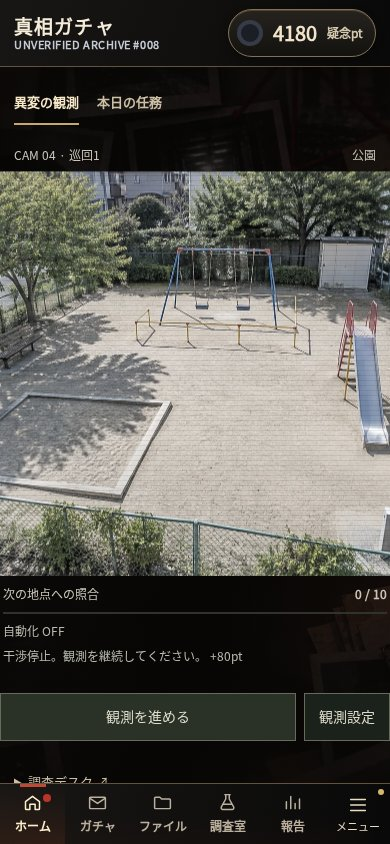
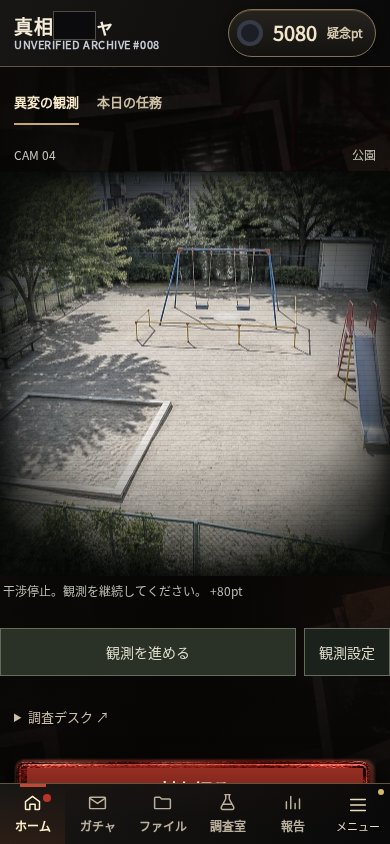
Restore redaction and uneasy observation, defer automation unlocks (#54)

diff --git a/assets/observation.js b/assets/observation.js
@@ -1,4 +1,6 @@
 /* The home is one live scene. Management and explanations live off the scene. */
+// Unlock conditions are undecided. Keep saved levels, but expose no purchase or execution path.
+const WATCH_AUTOMATION_AVAILABLE=false;
 const OBSERVATIONS={
  cctv:{title:'公園',source:'CAM 04',ratio:1.2,records:['日中の公園','風のないブランコ','影だけの来園者','砂場の整列']},
  photo:{title:'食卓',source:'PHOTO 03',ratio:.75,records:['三人分の夕食','浮いた箸','四人目の夕食','窓の内側']},
@@ -31,14 +33,10 @@ function renderObservation(){
  }
  const quiet=o.quiet||!!S.incursion?.quiet;
  f.dataset.quiet=String(quiet);f.dataset.ready='true';f.setAttribute('aria-disabled','false');
- const danger=!!p&&p.rarity>0,target=danger?WatchModel.SUPPRESS[p.rarity]:WatchModel.TAPS[o.upgrades.interval],progress=danger?(p.suppression||0):o.tapProgress;
- document.getElementById('obs-action-label').textContent=danger?'映像の乱れを抑える':'次の地点への照合';
+ const danger=!!p&&p.rarity>0;
  document.getElementById('obs-tap').textContent=danger?'干渉を抑える':'観測を進める';
- document.getElementById('obs-progress-count').textContent=`${progress} / ${target}`;
- const bar=document.getElementById('obs-progress');bar.max=target;bar.value=progress;bar.setAttribute('aria-label',danger?'異変の鎮静':'地点切替');
- document.getElementById('obs-auto-status').textContent=!o.autoEnabled?'自動化 OFF':danger?(o.upgrades.suppression>=p.rarity?'自動鎮静中':o.upgrades.patrol?'自動巡回：異変の対処待ち':''):(o.upgrades.patrol?`自動巡回 · ${WatchModel.AUTO_SECONDS[o.upgrades.patrol]}秒で1回`:'');
- f.setAttribute('aria-label',`${m.title}。${danger?'異変を鎮静':'次の観測地点へ'}。${progress}/${target}。タップで観測を進める`);
- document.getElementById('obs-source').textContent=`${m.source} · 巡回${o.patrols+1}`;
+ f.setAttribute('aria-label',`${m.title}。${danger?'干渉を抑える':'タップで観測を進める'}`);
+ document.getElementById('obs-source').textContent=m.source;
  document.getElementById('obs-name').textContent=m.title;
  document.getElementById('obs-ready').hidden=!p;
  document.getElementById('obs-timer').textContent=p?`◷ ${watchDuration(p.expiresAt-o.lastSeen)}`:'';
@@ -53,7 +51,7 @@ function observationTick(){
  const scene=document.getElementById('obs-frame').getBoundingClientRect();
  const active=scene.bottom>0&&scene.top<innerHeight-60&&!document.hidden&&!document.getElementById('incursion-dialog').open&&document.getElementById('sheet-bg').hidden&&document.getElementById('stage').hidden&&!!document.getElementById('obs-frame').getClientRects().length;
  const o=observationState(),before=[o.tapProgress,o.pending?.suppression,o.pending?.sequence,o.sequence].join('/');
- const result=WatchModel.automate(o,Date.now(),active);
+ const result=WatchModel.automate(o,Date.now(),WATCH_AUTOMATION_AVAILABLE&&active);
  if(result)observationReward(result,true);else {
   if(before!==[o.tapProgress,o.pending?.suppression,o.pending?.sequence,o.sequence].join('/'))markDirty();
   renderObservation();
@@ -74,12 +72,12 @@ function observationCollect(){
 }
 function observationSettings(){
  const o=observationSync(),p=o.pending;
- sheet('観測設定',`<div class="watch-settings"><h2>${WatchModel.MODES[o.mode].label} ／ ${OBSERVATIONS[o.mode].title}</h2><p>${p?`受取期限まで ${watchDuration(p.expiresAt-o.lastSeen)}`:`定時観測まで ${watchDuration(o.dueAt-o.lastSeen)}`}</p><p>${WatchModel.TAPS[o.upgrades.interval]}タップで巡回 · ${WatchModel.RETENTION[o.upgrades.retention]}時間保持</p><p>映像または「観測を進める」を繰り返しタップ。照合が完了すると解放済みの次の地点へ移動し、記録報酬を受け取ります。1地点のみの場合は同じ地点を再観測します。異変は追加のタップで干渉を抑えると、通常より多くの記録報酬を受け取ります。保持中は別地点に切り替えられません。</p><button class="btn-paper" data-watch="lab">観測装備を変更・育成</button><label><input type="checkbox" data-watch-auto ${o.autoEnabled?'checked':''}> 自動巡回・鎮静を有効にする</label><p>自動化は調査室で強化。観測映像の表示中だけ進み、別画面・資料閲覧・対処中は停止。留守中の自動pt獲得は継続します。</p><label><input type="checkbox" data-watch-quiet ${o.quiet?'checked':''}> 揺れ・瞬きを抑える</label><details><summary>観測記録 ${o.collected}件</summary><ul>${o.history.slice().reverse().map(h=>`<li>${WatchModel.RARITY[h.rarity].name} · ${OBSERVATIONS[h.mode].records[h.rarity]} · +${h.reward}pt</li>`).join('')||'<li>記録はまだありません。</li>'}</ul></details><details><summary>出現率と報酬</summary><p>同じ地点で平常と3種類の異変を抽選。受取前の変更・引き直しはできません。</p><p>N / R / SR / SSR：${[[60,28,10,2],[50,33,14,3],[40,37,18,5]][o.upgrades.sensitivity].join(' / ')}%</p><p>通常巡回 8pt、異変鎮静 R / SR / SSR は80 / 200 / 480pt。方式倍率：監視×1、写真×1.25、視界×1.5、車載×2。虫眼鏡でさらに1Lvあたり+10%（四捨五入）。</p></details><button class="btn-line" data-desk="evidence">別件の検知記録</button><button class="btn-line" data-inc="open">異変の対処記録</button></div>`);
+ sheet('観測設定',`<div class="watch-settings"><h2>${WatchModel.MODES[o.mode].label} ／ ${OBSERVATIONS[o.mode].title}</h2><p>${p?`受取期限まで ${watchDuration(p.expiresAt-o.lastSeen)}`:`定時観測まで ${watchDuration(o.dueAt-o.lastSeen)}`}</p><p>${WatchModel.RETENTION[o.upgrades.retention]}時間保持</p><p>映像または「観測を進める」を繰り返しタップ。照合が完了すると解放済みの次の地点へ移動し、記録報酬を受け取ります。1地点のみの場合は同じ地点を再観測します。異変は追加のタップで干渉を抑えると、通常より多くの記録報酬を受け取ります。保持中は別地点に切り替えられません。</p><button class="btn-paper" data-watch="lab">観測装備を変更・育成</button>${WATCH_AUTOMATION_AVAILABLE?`<label><input type="checkbox" data-watch-auto ${o.autoEnabled?'checked':''}> 自動巡回・鎮静を有効にする</label><p>自動化は調査室で強化。観測映像の表示中だけ進み、別画面・資料閲覧・対処中は停止。留守中の自動pt獲得は継続します。</p>`:''}<label><input type="checkbox" data-watch-quiet ${o.quiet?'checked':''}> 揺れ・瞬きを抑える</label><details><summary>観測記録 ${o.collected}件</summary><ul>${o.history.slice().reverse().map(h=>`<li>${WatchModel.RARITY[h.rarity].name} · ${OBSERVATIONS[h.mode].records[h.rarity]} · +${h.reward}pt</li>`).join('')||'<li>記録はまだありません。</li>'}</ul></details><details><summary>出現率と報酬</summary><p>同じ地点で平常と3種類の異変を抽選。受取前の変更・引き直しはできません。</p><p>N / R / SR / SSR：${[[60,28,10,2],[50,33,14,3],[40,37,18,5]][o.upgrades.sensitivity].join(' / ')}%</p><p>通常巡回 8pt、異変鎮静 R / SR / SSR は80 / 200 / 480pt。方式倍率：監視×1、写真×1.25、視界×1.5、車載×2。虫眼鏡でさらに1Lvあたり+10%（四捨五入）。</p></details><button class="btn-line" data-desk="evidence">別件の検知記録</button><button class="btn-line" data-inc="open">異変の対処記録</button></div>`);
 }
 function renderObservationLab(){
  const root=document.getElementById('observation-lab');if(!root)return;if(isLite()){root.innerHTML='';return;}
  const o=observationState();
- root.innerHTML=`<section class="watch-lab"><div class="watch-lab-heading"><h2>観測装備</h2><span>${o.collected}件</span></div><div class="watch-equipment">${Object.entries(WatchModel.MODES).map(([id,m])=>{const owned=o.unlocked.includes(id),active=id===o.mode,eligible=o.collected>=m.need&&S.currency>=m.cost;return `<article class="watch-mode ${active?'equipped':''}"><div><b>${m.label}</b><small>${OBSERVATIONS[id].title} · pt ×${m.mult}</small></div><button type="button" data-watch-${owned?'equip':'unlock'}="${id}" ${owned?(active||o.pending?'disabled':''):eligible?'':'disabled'}>${active?'● 設置中':owned?'設置':o.collected<m.need?`🔒 ${o.collected}/${m.need}件`:`解放 ${m.cost}pt`}</button></article>`;}).join('')}</div>${o.pending?'<p class="watch-note">記録を保持中。タップで観測・鎮静を終えると装備を変更できます。</p>':''}<details class="watch-upgrades"><summary>観測を強化 <span>${WatchModel.TAPS[o.upgrades.interval]}タップ / ${WatchModel.RETENTION[o.upgrades.retention]}h</span></summary>${Object.entries(WatchModel.UPGRADES).map(([id,u])=>{const lv=o.upgrades[id],max=lv===u.max;const values=id==='retention'?WatchModel.RETENTION.map(x=>x+'時間'):id==='interval'?WatchModel.TAPS.map(x=>x+'タップ'):id==='patrol'?['手動','5秒に1回','3秒に1回','1秒に1回']:id==='suppression'?['手動','Rまで自動','SRまで自動','SSRまで自動']:['SSR 2%','SSR 3%','SSR 5%'];return `<article><div><b>${u.name}</b><small>${values[lv]}${max?'':` → ${values[lv+1]}`}</small></div><button data-watch-upgrade="${id}" ${max||S.currency<u.costs[lv]?'disabled':''}>${max?'最大':`${u.costs[lv]}pt`}</button></article>`;}).join('')}<p class="watch-note">保持強化は受取待ちの記録にも適用。巡回効率は定時観測の間隔も短縮。自動鎮静は観測映像の異変が対象で、封筒調査の自律封印装置とは別です。</p></details></section>`;
+ root.innerHTML=`<section class="watch-lab"><div class="watch-lab-heading"><h2>観測装備</h2><span>${o.collected}件</span></div><div class="watch-equipment">${Object.entries(WatchModel.MODES).map(([id,m])=>{const owned=o.unlocked.includes(id),active=id===o.mode,eligible=o.collected>=m.need&&S.currency>=m.cost;return `<article class="watch-mode ${active?'equipped':''}"><div><b>${m.label}</b><small>${OBSERVATIONS[id].title} · pt ×${m.mult}</small></div><button type="button" data-watch-${owned?'equip':'unlock'}="${id}" ${owned?(active||o.pending?'disabled':''):eligible?'':'disabled'}>${active?'● 設置中':owned?'設置':o.collected<m.need?`🔒 ${o.collected}/${m.need}件`:`解放 ${m.cost}pt`}</button></article>`;}).join('')}</div>${o.pending?'<p class="watch-note">記録を保持中。タップで観測・鎮静を終えると装備を変更できます。</p>':''}<details class="watch-upgrades"><summary>観測を強化 <span>${WatchModel.RETENTION[o.upgrades.retention]}h</span></summary>${Object.entries(WatchModel.UPGRADES).filter(([id])=>WATCH_AUTOMATION_AVAILABLE||!['patrol','suppression'].includes(id)).map(([id,u])=>{const lv=o.upgrades[id],max=lv===u.max;const values=id==='retention'?WatchModel.RETENTION.map(x=>x+'時間'):id==='interval'?['標準','短縮 I','短縮 II','短縮 III']:id==='patrol'?['手動','5秒に1回','3秒に1回','1秒に1回']:id==='suppression'?['手動','Rまで自動','SRまで自動','SSRまで自動']:['SSR 2%','SSR 3%','SSR 5%'];return `<article><div><b>${u.name}</b><small>${values[lv]}${max?'':` → ${values[lv+1]}`}</small></div><button data-watch-upgrade="${id}" ${max||S.currency<u.costs[lv]?'disabled':''}>${max?'最大':`${u.costs[lv]}pt`}</button></article>`;}).join('')}<p class="watch-note">保持強化は受取待ちの記録にも適用。巡回効率は定時観測の間隔も短縮。</p></details></section>`;
 }
 document.getElementById('obs-frame').addEventListener('click',observationCollect);
 document.getElementById('obs-tap').addEventListener('click',observationCollect);
@@ -90,11 +88,11 @@ document.addEventListener('click',e=>{
  const o=observationSync();let cost=null;
  if(b.dataset.watchEquip){if(!WatchModel.equip(o,b.dataset.watchEquip,Date.now()))return;}
  else if(b.dataset.watchUnlock){cost=WatchModel.unlock(o,b.dataset.watchUnlock,S.currency);if(cost===null)return;S.currency-=cost;}
- else if(b.dataset.watchUpgrade){cost=WatchModel.upgrade(o,b.dataset.watchUpgrade,S.currency,Date.now());if(cost===null)return;S.currency-=cost;}
+ else if(b.dataset.watchUpgrade){if(!WATCH_AUTOMATION_AVAILABLE&&['patrol','suppression'].includes(b.dataset.watchUpgrade))return;cost=WatchModel.upgrade(o,b.dataset.watchUpgrade,S.currency,Date.now());if(cost===null)return;S.currency-=cost;}
  else return;
  const expanded=document.querySelector('.watch-upgrades')?.open;markDirty();render();if(expanded)document.querySelector('.watch-upgrades').open=true;
 });
-document.addEventListener('change',e=>{if(e.target.matches('[data-watch-auto]')){observationState().autoEnabled=e.target.checked;observationState().autoLastAt=Date.now();markDirty();}if(e.target.matches('[data-watch-quiet]')){observationState().quiet=e.target.checked;markDirty();renderObservation();}});
+document.addEventListener('change',e=>{if(WATCH_AUTOMATION_AVAILABLE&&e.target.matches('[data-watch-auto]')){observationState().autoEnabled=e.target.checked;observationState().autoLastAt=Date.now();markDirty();}if(e.target.matches('[data-watch-quiet]')){observationState().quiet=e.target.checked;markDirty();renderObservation();}});
 document.addEventListener('visibilitychange',()=>{if(typeof S!=='undefined'&&!isLite()){observationState().autoLastAt=Date.now();if(!document.hidden)observationTick();}});
 
 function renderObservationAlbum(){

diff --git a/assets/observation.css b/assets/observation.css
@@ -48,13 +48,6 @@ body:has(.agent-home:not([hidden])) main{padding-bottom:calc(84px + env(safe-are
 
 .watch-research{display:flex;align-items:center;justify-content:space-between;gap:12px;padding:10px 0;color:#d7cbb1;font-size:14px}.watch-research button{min-height:44px;min-width:92px;border:1px solid #9c8655;background:#29392d;color:#fff0cf;font:700 14px var(--f-body);padding:10px;scroll-margin-block:90px}.watch-research button:disabled{background:transparent;color:#bdb39c;border-color:#625a48;opacity:1}.watch-research-confirm h2{font-size:20px}.watch-research-confirm p{font-size:15px;line-height:1.8;color:#eddfc3}.watch-research-confirm button{display:block;min-height:48px;width:100%;margin:12px 0;white-space:normal}
 
-/* Instrument readout: quiet, outside the image; no arcade reward animation. */
-.obs-progress{padding:8px 3px 0;color:#c9c6b9}
-.obs-progress>div{display:flex;justify-content:space-between;gap:12px;font:12px/1.7 var(--f-mono)}
-.obs-progress progress{display:block;width:100%;height:2px;margin:7px 0;accent-color:#96998b;border:0}
-.obs-progress progress::-webkit-progress-bar{background:#30332c}
-.obs-progress progress::-webkit-progress-value{background:#96998b}
-.obs-progress small{display:block;min-height:18px;color:#b8bcaf;font-size:12px}
 .obs-controls{display:flex;flex-wrap:wrap;gap:8px;margin:4px 0 8px}
 .obs-controls button{min-height:48px;padding:10px 14px;border:1px solid #676b5b;background:#1b211b;color:#dddccb;font:14px/1.5 var(--f-body);touch-action:manipulation}
 .obs-controls #obs-tap{flex:1;min-width:140px;background:#2a3127}
@@ -65,3 +58,11 @@ body:has(.agent-home:not([hidden])) main{padding-bottom:calc(84px + env(safe-are
 .obs-frame{--obs-height:clamp(290px,48dvh,560px)}
 
 .obs-alert{width:auto;height:auto;padding:4px 7px;border-radius:0;background:#111a;color:#cccdbd;font:12px/1.5 var(--f-mono);box-shadow:none}
+
+/* Look through a dark aperture. Only the scene is shaded, never controls or text.
+   Keep the centre clear and the periphery translucent so anomalies remain observable. */
+.obs-frame::after{content:'';position:absolute;inset:0;pointer-events:none;z-index:1;background:radial-gradient(ellipse 65% 58% at 50% 48%,transparent 38%,#05070533 62%,#050705b8 87%,#050705eb 100%);box-shadow:inset 0 0 22px 5px #050705bd}
+.obs-frame[data-mode=vision]::after{background:radial-gradient(ellipse 68% 48% at 50% 49%,transparent 38%,#03050355 68%,#030503d9 96%)}
+.obs-frame[data-mode=photo]::after{background:radial-gradient(ellipse 66% 64% at 49% 46%,transparent 40%,#110c0855 70%,#050403d9 100%)}
+.obs-frame[data-mode=dash]::after{background:radial-gradient(ellipse 78% 53% at 50% 44%,transparent 38%,#03050444 65%,#030504d9 100%)}
+.obs-alert,.obs-timer,#obs-first-hint{z-index:2}

diff --git a/assets/menu.js b/assets/menu.js
@@ -1,6 +1,6 @@
 /* Operator notices are release-managed; personal game mail is saved with the player. */
 const GAME_NOTICES=[
- {id:'observation-patrol-1',date:'2026.10.09',title:'観測手順と操作配置を更新しました',body:'映像か下部のボタンを繰り返しタップすると次の地点へ進み、平常時も記録報酬を受け取れます。映像に干渉がある場合は追加操作で抑えてください。調査室で自動巡回・鎮静を強化できます。設定やメニューは下部へ移動し、真相印は本文と重ならない位置に調整しました。'},
+ {id:'observation-patrol-1',date:'2026.10.09',title:'観測手順と操作配置を更新しました',body:'映像か下部のボタンを繰り返しタップすると次の地点へ進み、平常時も記録報酬を受け取れます。映像に干渉がある場合は追加操作で抑えてください。自動巡回・鎮静は解放条件の調整中につき非表示・停止しています。購入済みの育成データは保持されます。設定やメニューは下部へ移動し、真相印は本文と重ならない位置に調整しました。'},
  {id:'observation-research-1',date:'2026.10.09',title:'重複記録を照合できるようになりました',body:'「ファイル → 観測」で同じ地点の重複48件を照合すると、未発見の記録を1件復元できます。発見済みの画像や記録件数は残ります。全4種を揃えた達成報酬や、発見済み画像の比較も利用できます。'},
  {id:'observation-2',date:'2026.10.09',title:'観測と記録を更新しました',body:'観測映像を大きく表示し、1つの装備で記録を待つ仕組みに更新しました。記録は3時間保持され、調査室で最大24時間まで延長できます。発見した映像は「ファイル → 観測」から見返せます。'},
  {id:'menu-1',date:'2026.10.09',title:'お知らせ・受信ボックスを追加しました',body:'運営からの更新情報はこのお知らせに掲載します。ゲーム内メールと添付報酬は受信ボックスへ届きます。新着はメニューの小さな印で確認できます。'}

diff --git a/index.html b/index.html
@@ -1005,7 +1005,7 @@ main:has(.gacha-scene:not([hidden])){padding-bottom:calc(var(--nav-h) + env(safe
 
 <header class="top">
   <div class="top-in">
-    <div class="logo">真相<span class="bar">ガチ</span>ャ<small id="issue">UNVERIFIED ARCHIVE #001</small></div>
+    <div class="logo" aria-label="真相ガチャ">真相<span class="bar">ガチ</span>ャ<small id="issue">UNVERIFIED ARCHIVE #001</small></div>
     <button class="wallet" id="wallet" type="button" aria-label="疑念ptの獲得詳細を見る">
       <span class="ring" id="ring" aria-hidden="true"></span>
       <b id="pt">0</b><span>疑念pt</span>
@@ -1086,7 +1086,6 @@ main:has(.gacha-scene:not([hidden])){padding-bottom:calc(var(--nav-h) + env(safe
           <span id="obs-timer" class="obs-timer" aria-hidden="true"></span>
           <span id="obs-first-hint">映像または下のボタンをタップ</span>
         </button>
-        <div class="obs-progress"><div><span id="obs-action-label"></span><b id="obs-progress-count"></b></div><progress id="obs-progress" max="10" value="0" aria-label="観測の進捗"></progress><small id="obs-auto-status"></small></div>
         <p id="obs-feedback" role="status" aria-live="polite"></p>
         <div class="obs-controls"><button id="obs-tap" type="button">観測を進める</button><button data-watch="settings" type="button">観測設定</button><button id="obs-danger" data-inc="open" aria-label="別件の異変に対処" hidden>対処記録</button></div>
       </section>

diff --git a/assets/information-ui.css b/assets/information-ui.css
@@ -1,5 +1,5 @@
 /* One physical surface per component; no extra picture frames around props. */
-.logo .bar { background:transparent; color:inherit; box-shadow:none; }
+.logo .bar { background:var(--redact); color:transparent; box-shadow:0 0 0 1px #4d4b43; }
 .logo { animation:none; }
 .dossier-view .scene-heading { padding:8px 0 12px; min-height:0; border-bottom:0; }
 .dossier-view .scene-heading::after { display:none; }

diff --git a/docs/OBSERVATION.md b/docs/OBSERVATION.md
@@ -17,6 +17,8 @@
 
 定時観測も10分ごとに1件保持。保持は3時間、育成で6→12→24時間。期限を逃しても危険度や所持ptは減らない。巡回効率は10→8→6→4タップ、定時観測間隔も10→8→6→5分へ短縮。既存の自動pt獲得は独立して継続する。手動のSR/SSR記録では従来の異変進行・対抗策を維持する。自動回収や時間経過だけでは危険度を上げない。
 
+自動巡回・自動鎮静は解放条件を決めるまでUI・購入・実行を停止（`WATCH_AUTOMATION_AVAILABLE=false`）。既存の購入レベルと設定は保存し、リロードでも消去しない。既存の自動pt獲得には変更なし。以下は再公開前の内部仕様。
+
 自動巡回は300/900/2400ptで5/3/1秒に1操作へ強化。自動鎮静は600/1800/4000ptでR/SR/SSRまで対応。未対応の異変では巡回停止。映像を表示している間だけ動き、別画面・資料・開封・対処・バックグラウンドでは停止する。復帰時のまとめ進行なし。設定で停止でき、自動処理は手動任務のクリック数を増やさない。
 
 |方式|解放条件（回収数／pt）|報酬倍率|
@@ -73,7 +75,7 @@
 
 ## 演出・操作の優先順位
 - 恐怖・不安・緊張を優先し、育成とポイントは観測を支える裏側の仕組みにする。明るい獲得演出、コンボ、連打を急かすコピー、報酬で映像を覆う表示を追加しない。
-- 進捗は細い計器と小さな数値。レア度・異変の名前・答えは観測画面で先に説明しない。平常画像と差異をじっと見る余地を残す。
+- クリック回数・進捗ゲージ・巡回回数は表示しない。設定と育成にも必要タップ数を出さない。レア度・異変の名前・答えは観測画面で先に説明しない。平常画像と差異をじっと見る余地を残す。観測だけに静的な周辺減光をかけ、覗き込む視野を作る。中心は明瞭に保ち、周辺を完全には隠さない。資料での再閲覧は原画像を保持する。
 - 主操作と観測設定は映像下、メニューは既存の下部ナビへ。固定操作を映像上に重ねない。閉じるなど文脈上必要な操作は近くに保つ。
 - 真相ハンコは開封資料・ファイル一覧とも本文と別の行に配置。小画面では資料内をスクロールできる。
 - タップ巡回への移行で重複照合の所要時間は変わる。既存の照合シミュレーションは件数分布の参考であり、新ループの長期経済バランスは実プレイで再調整する。

diff --git a/AGENTS.md b/AGENTS.md
@@ -9,3 +9,4 @@
 - Keep the observation UI focused on one large scene. Preserve the existing world and game loop, save compatibility, point accounting, and mobile readability. Unseen records must not reveal their names or images.
 
 - Preserve horror, unease and tension over arcade presentation. Keep patrol/growth rewards understated, avoid combo/speed pressure and celebratory overlays, and leave the scene legible. Put primary controls below content or in the existing lower navigation; never cover text with stamps.
+- Do not expose observation tap counts, progress gauges or patrol counters. Keep the title redaction. Observation automation stays hidden and inactive until unlock conditions are agreed; preserve saved upgrade levels.
